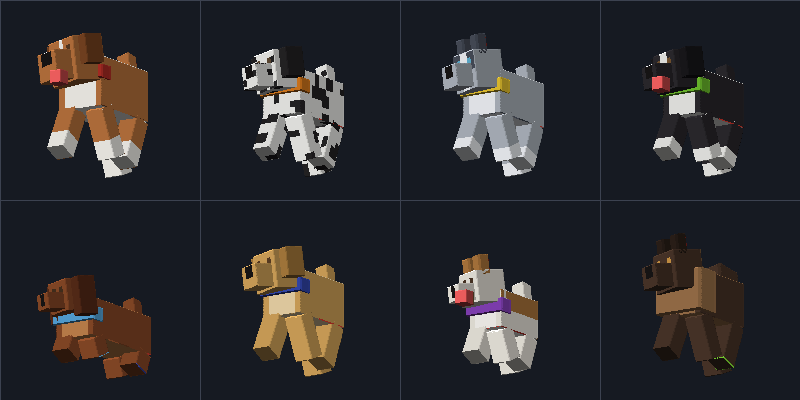
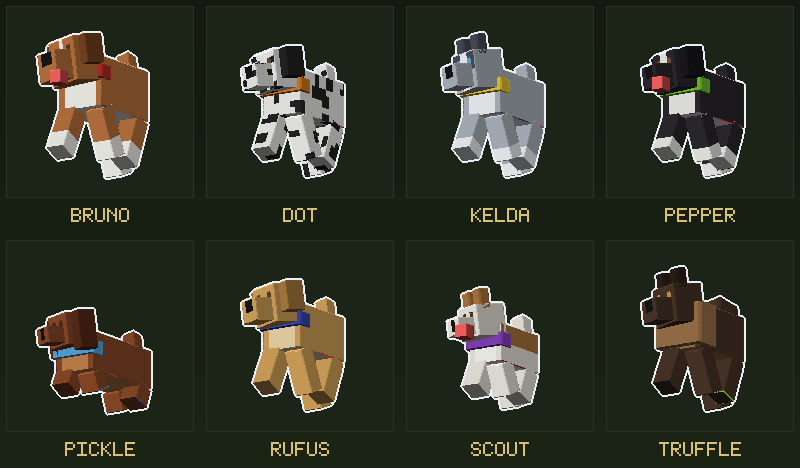
Kontaktkartan blev en produktbild i stället för en felsökningsdump
Åtta rutor med hård rutnätslinje mot marinblå botten såg ut som ett testutdrag
på sajten: fel färg mot sidans gröna, och ingen kunde säga vilken hund som var
vilken. Nu står namnen under hundarna, bottnen är samma toning som sidan, varje
hund har en egen panel i stället för rutnätslinjer, och den vita konturen från
loggan är med — utan den försvinner Pepper helt, nästan svart päls mot mörk
botten är ingen bild alls.

Granskat i webbläsare: inga konsolfel, alla bilder 200, ingen horisontell
scroll vid 390 px bredd.

diff --git a/tools/render_dogs.py b/tools/render_dogs.py
@@ -16,6 +16,7 @@ import json, math, os, sys
 
 BASE = os.path.dirname(os.path.dirname(os.path.abspath(__file__)))
 sys.path.insert(0, "/opt/purrfect-companions")
+sys.path.insert(0, "/opt/purrfect-companions/tools/promo")
 import render_regression as rr
 
 RP = f"{BASE}/LoyalCompanions_RP"
@@ -99,23 +100,51 @@ def rita(geoid, texnamn, W, H, yaw=34, pitch=14, pose=POSE, bar=0, halsband=0,
 
 
 def ark():
-    """Kontaktkarta: varje ras framifrån-snett och i profil."""
+    """Kontaktkarta över alla raser — en PRODUKTBILD, inte en felsökningsdump.
+
+    Första versionen var åtta rutor med hård rutnätslinje mot marinblå botten.
+    På sajten såg den ut som ett testutdrag: fel färg mot sidans gröna, och
+    ingen kunde säga vilken hund som var vilken. Nu står namnen under
+    hundarna och bottnen är samma toning som sidan."""
+    import make_video as mv                       # text() lånas från trailern
+
     raser = rasklient()
-    RUTA, KOL = 200, 4
+    RUTA, ETIKETT, KOL = 200, 34, 4
     rader = math.ceil(len(raser) / KOL)
-    W, H = RUTA * KOL, RUTA * rader
-    duk = [[(16, 18, 24, 255)] * W for _ in range(H)]
+    W, H = RUTA * KOL, (RUTA + ETIKETT) * rader
+    # mv.text() klipper mot SIN modulnivås W/H — trailerns 480x270. Utan den
+    # här raden hamnar halva texten utanför duken.
+    mv.W, mv.H = W, H
+    # samma toning som sajtens body (#141a10 → #1c2416), så bilden sitter i
+    # sidan i stället för att ligga ovanpå den
+    duk = [[(int(20 + 8 * y / H), int(26 + 10 * y / H), int(16 + 6 * y / H), 255)
+            for _ in range(W)] for y in range(H)]
     for i, (rasid, geoid, tex) in enumerate(raser):
         bild = rita(geoid, tex, RUTA, RUTA, bar=1 if i % 3 == 0 else 0,
-                    halsband=(i % 8) + 1)
-        rx, ry = (i % KOL) * RUTA, (i // KOL) * RUTA
+                    halsband=(i % 8) + 1, bakgrund=(0, 0, 0, 0))
+        rx, ry = (i % KOL) * RUTA, (i // KOL) * (RUTA + ETIKETT)
+        # PANEL bakom varje hund: en aning ljusare än bottnen, med tunn kant.
+        # Skiljer rutorna åt utan hårda rutnätslinjer, som fick första
+        # versionen att se ut som ett kalkylark.
+        for y in range(ry + 6, ry + RUTA - 2):
+            for x in range(rx + 6, rx + RUTA - 6):
+                kant = min(x - (rx + 6), y - (ry + 6), rx + RUTA - 7 - x, ry + RUTA - 3 - y)
+                duk[y][x] = (40, 52, 34, 255) if kant < 1 else (27, 36, 23, 255)
+        # VIT KONTUR, samma grepp som loggan. Utan den försvinner Pepper —
+        # nästan svart päls mot mörk botten är ingen bild alls.
+        for dx, dy in ((-2, 0), (2, 0), (0, -2), (0, 2), (-1, -1), (1, -1), (-1, 1), (1, 1)):
+            for y in range(RUTA):
+                for x in range(RUTA):
+                    if not bild[y][x][3]:
+                        continue
+                    py, px = ry + y + dy, rx + x + dx
+                    if ry <= py < ry + RUTA and rx <= px < rx + RUTA:
+                        duk[py][px] = (232, 240, 246, 255)
         for y in range(RUTA):
             for x in range(RUTA):
-                duk[ry + y][rx + x] = bild[y][x]
-        for x in range(RUTA):                       # rutnät
-            duk[ry][rx + x] = (60, 66, 80, 255)
-        for y in range(RUTA):
-            duk[ry + y][rx] = (60, 66, 80, 255)
+                if bild[y][x][3]:
+                    duk[ry + y][rx + x] = bild[y][x]
+        mv.text(duk, rasid.upper(), rx + RUTA // 2, ry + RUTA + 8, 2, (217, 192, 122, 255))
     os.makedirs(f"{BASE}/publish", exist_ok=True)
     rr.write_png(f"{BASE}/publish/dogs.png", W, H, duk)
     print(f"  publish/dogs.png ({W}x{H}) — {', '.join(r[0] for r in raser)}")
